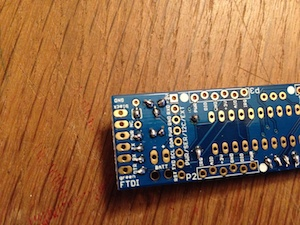
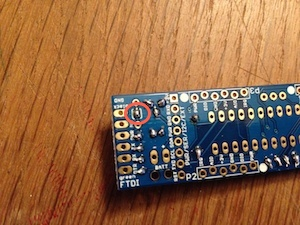
Adds post 'Souder un JeeNode'

Changed region(s): [[0.39, 0.4356, 0.51, 0.56]]

diff --git a/_posts/2015-01-06-souder_jeenode.md b/_posts/2015-01-06-souder_jeenode.md
@@ -1,0 +1,166 @@
+---
+layout: post
+title: Souder un JeeNode
+tags:
+- jeenode
+---
+
+Ah ba tiens! Te revoilà ami lecteur.
+
+J'imagine que suite à mon dernier billet sur [la vie de Jean-Claude]({% post_url 2015-01-05-plateforme_jeenode %}), tu t'es empressé d'acheter un JeeNode, fougeux que tu es.
+
+Et du coup tu te retrouves devant çà:
+
+![Jeenode Kit][1]
+
+Je vois bien ton désarroi. Personne ne t'avais prévenu. Hey ba ouais, il va falloir faire resurgir tes vieux cours d'EMT du passé et souder tout çà.
+
+Alors attention, que çà soit bien clair, on dit bien **souder** et pas **soudre**, parce que si tu dis soudre, tu disparais... hoho... hum passons.
+
+Si jamais tu veux la version originale, tu peux aller sur [le blog de Jean-Claude](http://jeelabs.org/2010/09/26/assembling-the-jeenode-v5/).
+
+
+### Ces Slaves savent souder sans soucis, si-si
+
+Allez, on y va, on se lance, on y croit, on n'a pas peur.
+
+On est donc devant çà:
+
+![Jeenode Kit][2]
+
+Alors, ma petite astuce, mon petit plus à moi, c'est de remplacer cette **saloperie de header tout pourrit vendu avec le kit** par des headers à angle droit [vendus dans la boutique de Jean-Claude](http://www.digitalsmarties.net/products/right-angle-plug-headers).
+
+Regarde bien; à gauche, le tout pourrit, et à droite, le moins pourrit:
+
+![Jeenode Kit][3]
+
+Je crois que la photo parle d'elle même, c'est flagrant.
+
+Non mais à la base, la soudure c'est pas mon truc, alors forcément si en plus y'a des pièges, çà peut énerver.
+
+Bref, gardons çà pour plus tard, et continuons.
+
+Commençons donc par éliminer la résistance. Met la résistance dans son emplacement **R1**, retourne le tout, et soude les pates:
+
+![Jeenode Kit][4]
+
+Ensuite tu peux couper les pates (admire au passage la mise en scène avec la pince juste à côté):
+
+![Jeenode Kit][5]
+
+Et hop! Une résistance soudée! BRAVO! Tu voies qu'ils servent enfin à quelque chose tes cours d'EMT du collège:
+
+![Jeenode Kit][6]
+
+Ensuite tu fais la même chose avec les 4 petits condensateurs:
+
+![Jeenode Kit][7]
+
+Alors là attention, accroche-toi bien, il y a une difficulté. Nous attaquons l'étape dites du **GROS CONDENSATEUR**. Oui je sais çà fait peur, mais c'est fait exprès. Car le gros condensateur est **polarisé**.
+
+Alors, d'après toi, est-ce que çà veut dire que:
+
+  1. Il est le héro du dernier San Antonio
+  2. Il s'est fait prendre au Polaroïd
+  3. Il cherche constamment un mec qui s'appellerait Risé mais qui ne serait jamais là
+  4. Contrairement à d'autres gros condensateurs, il n'est pas la risé des petits condensateurs
+  5. Y'a un sens et faut faire gaffe (en gros)
+
+Oui ok, donc oui y'a un sens et faut faire gaffe: la pate la plus longue est le **+**, et se trouve donc à droite. Voilà c'est tout:
+
+![Jeenode Kit][8]
+
+Passons maintenant au régulateur de tension. La aussi y'a un sens, mais maintenant que tu es bien chaud, je te vois mal te gourer sur celui-là.
+
+Commence donc par tordre la pate du milieu:
+
+![Jeenode Kit][9]
+
+Et sinon, tu connais l'histoire de *Hop! le régulateur* ? Bon va c'est un régulateur qui passe et puis Hop! le régulateur:
+
+![Jeenode Kit][10]
+
+Ensuite, si sur la photo suivante il y a un **cercle rouge**, ce n'est pas parce qu'il faut dessiner un rond au feutre rouge sur le JeeNode. Non pas du tout, c'est juste pour t'indiquer l'endroit où il faut mettre un peu de soudure. Alors oui, avant il y avait une diode, mais Jean-Claude s'est dit que finalement çà sert à rien. Du coup il faut relier les deux machins. Voilà. Et oui, *machin* c'est le terme technique qui convient:
+
+![Jeenode Kit][11]
+
+Attention accroche toi bien, tu vas maintenant enchainer **54 soudures** d'affilée!
+
+D'abord le support du chip:
+
+![Jeenode Kit][12]
+
+Ensuite les 4 headers de port:
+
+![Jeenode Kit][13]
+
+Voilà, tu l'as fait. Tu dois te sentir super fort maintenant.
+
+Je te vois même esquisser un sourire *"LOL trop facile"* quand vient le tour du résonnateur:
+
+![Jeenode Kit][14]
+
+Je te conseille quand même de moins faire le malin, car c'est avec la prochaine étape que tu vas commencer à bien transpirer des doigts.
+
+Non, tu ne rêves pas, tu vas effectivement souder le composant RFM12B comme tu penses que tu dois le faire. Et fait bien gaffe parce qu'il y a un sens, donc regarde bien la photo.
+
+On va commencer par mettre un peu de soudure sur un emplacement du composant, genre en haut à gauche:
+
+![Jeenode Kit][15]
+
+Le but maintenant est de positionner le RFM12B correctement, puis de chauffer la soudure préalablement posée pour la liquéfier. Et quand ca refroidit, le RFM12B doit être bien en place, comme ceci:
+
+![Jeenode Kit][16]
+
+A partir de là tu peux finir de le souder tout partout sauf au niveau du trou qui a un **A** à côté. Celui-là c'est pour l'antenne.
+
+Dénude donc un peu l'antenne, fait la passer dans ce trou, et soude la:
+
+![Jeenode Kit][18]
+
+Enfin, c'est au tout du port FTDI. Et c'est là que tu me remercies pour l'astuce du header à angle droit. Tu vas voir comme c'est facile avec ce header. Si tu es joueur, essaye donc de souder le header fourni avec le kit à la place, puis ouvre la fenêtre et jete le tout dehors en gueulant.
+
+Bon bref, voilà le bon header bien soudé:
+
+![Jeenode Kit][19]
+
+ET TADA ! Tu as soudé ton premier JeeNode, bravo je suis fier de toi:
+
+![Jeenode Kit][20]
+
+Ca mérite même une deuxième photo tiens:
+
+![Jeenode Kit][21]
+
+Donc voilà, c'est fini. Tu peux maintenant exposer ton JeeNode dans ton salon pour bien montrer à tout le monde que tu es un pro en électronique, un vrai. Un de ceux qui savent ce qui se cache derrière des termes techniques tels que **pate** et **machin**.
+
+Sinon, dans un futur plus ou moins proche, je t'expliquerai comment le programmer, lui ajouter des capteurs...
+
+Mais pour l'instant, je te dis à la prochaine, et n'oublie pas d'éteindre ton fer à souder avant de partir.
+
+
+### Références
+
+- <http://jeelabs.org/2010/09/26/assembling-the-jeenode-v5/>
+
+
+[1]: /img/jeenode_solder/jeenode_01.jpg
+[2]: /img/jeenode_solder/jeenode_02.jpg
+[3]: /img/jeenode_solder/jeenode_03.jpg
+[4]: /img/jeenode_solder/jeenode_04.jpg
+[5]: /img/jeenode_solder/jeenode_05.jpg
+[6]: /img/jeenode_solder/jeenode_06.jpg
+[7]: /img/jeenode_solder/jeenode_07.jpg
+[8]: /img/jeenode_solder/jeenode_08.jpg
+[9]: /img/jeenode_solder/jeenode_09.jpg
+[10]: /img/jeenode_solder/jeenode_10.jpg
+[11]: /img/jeenode_solder/jeenode_11.jpg
+[12]: /img/jeenode_solder/jeenode_12.jpg
+[13]: /img/jeenode_solder/jeenode_13.jpg
+[14]: /img/jeenode_solder/jeenode_14.jpg
+[15]: /img/jeenode_solder/jeenode_15.jpg
+[16]: /img/jeenode_solder/jeenode_16.jpg
+[18]: /img/jeenode_solder/jeenode_18.jpg
+[19]: /img/jeenode_solder/jeenode_19.jpg
+[20]: /img/jeenode_solder/jeenode_20.jpg
+[21]: /img/jeenode_solder/jeenode_21.jpg
